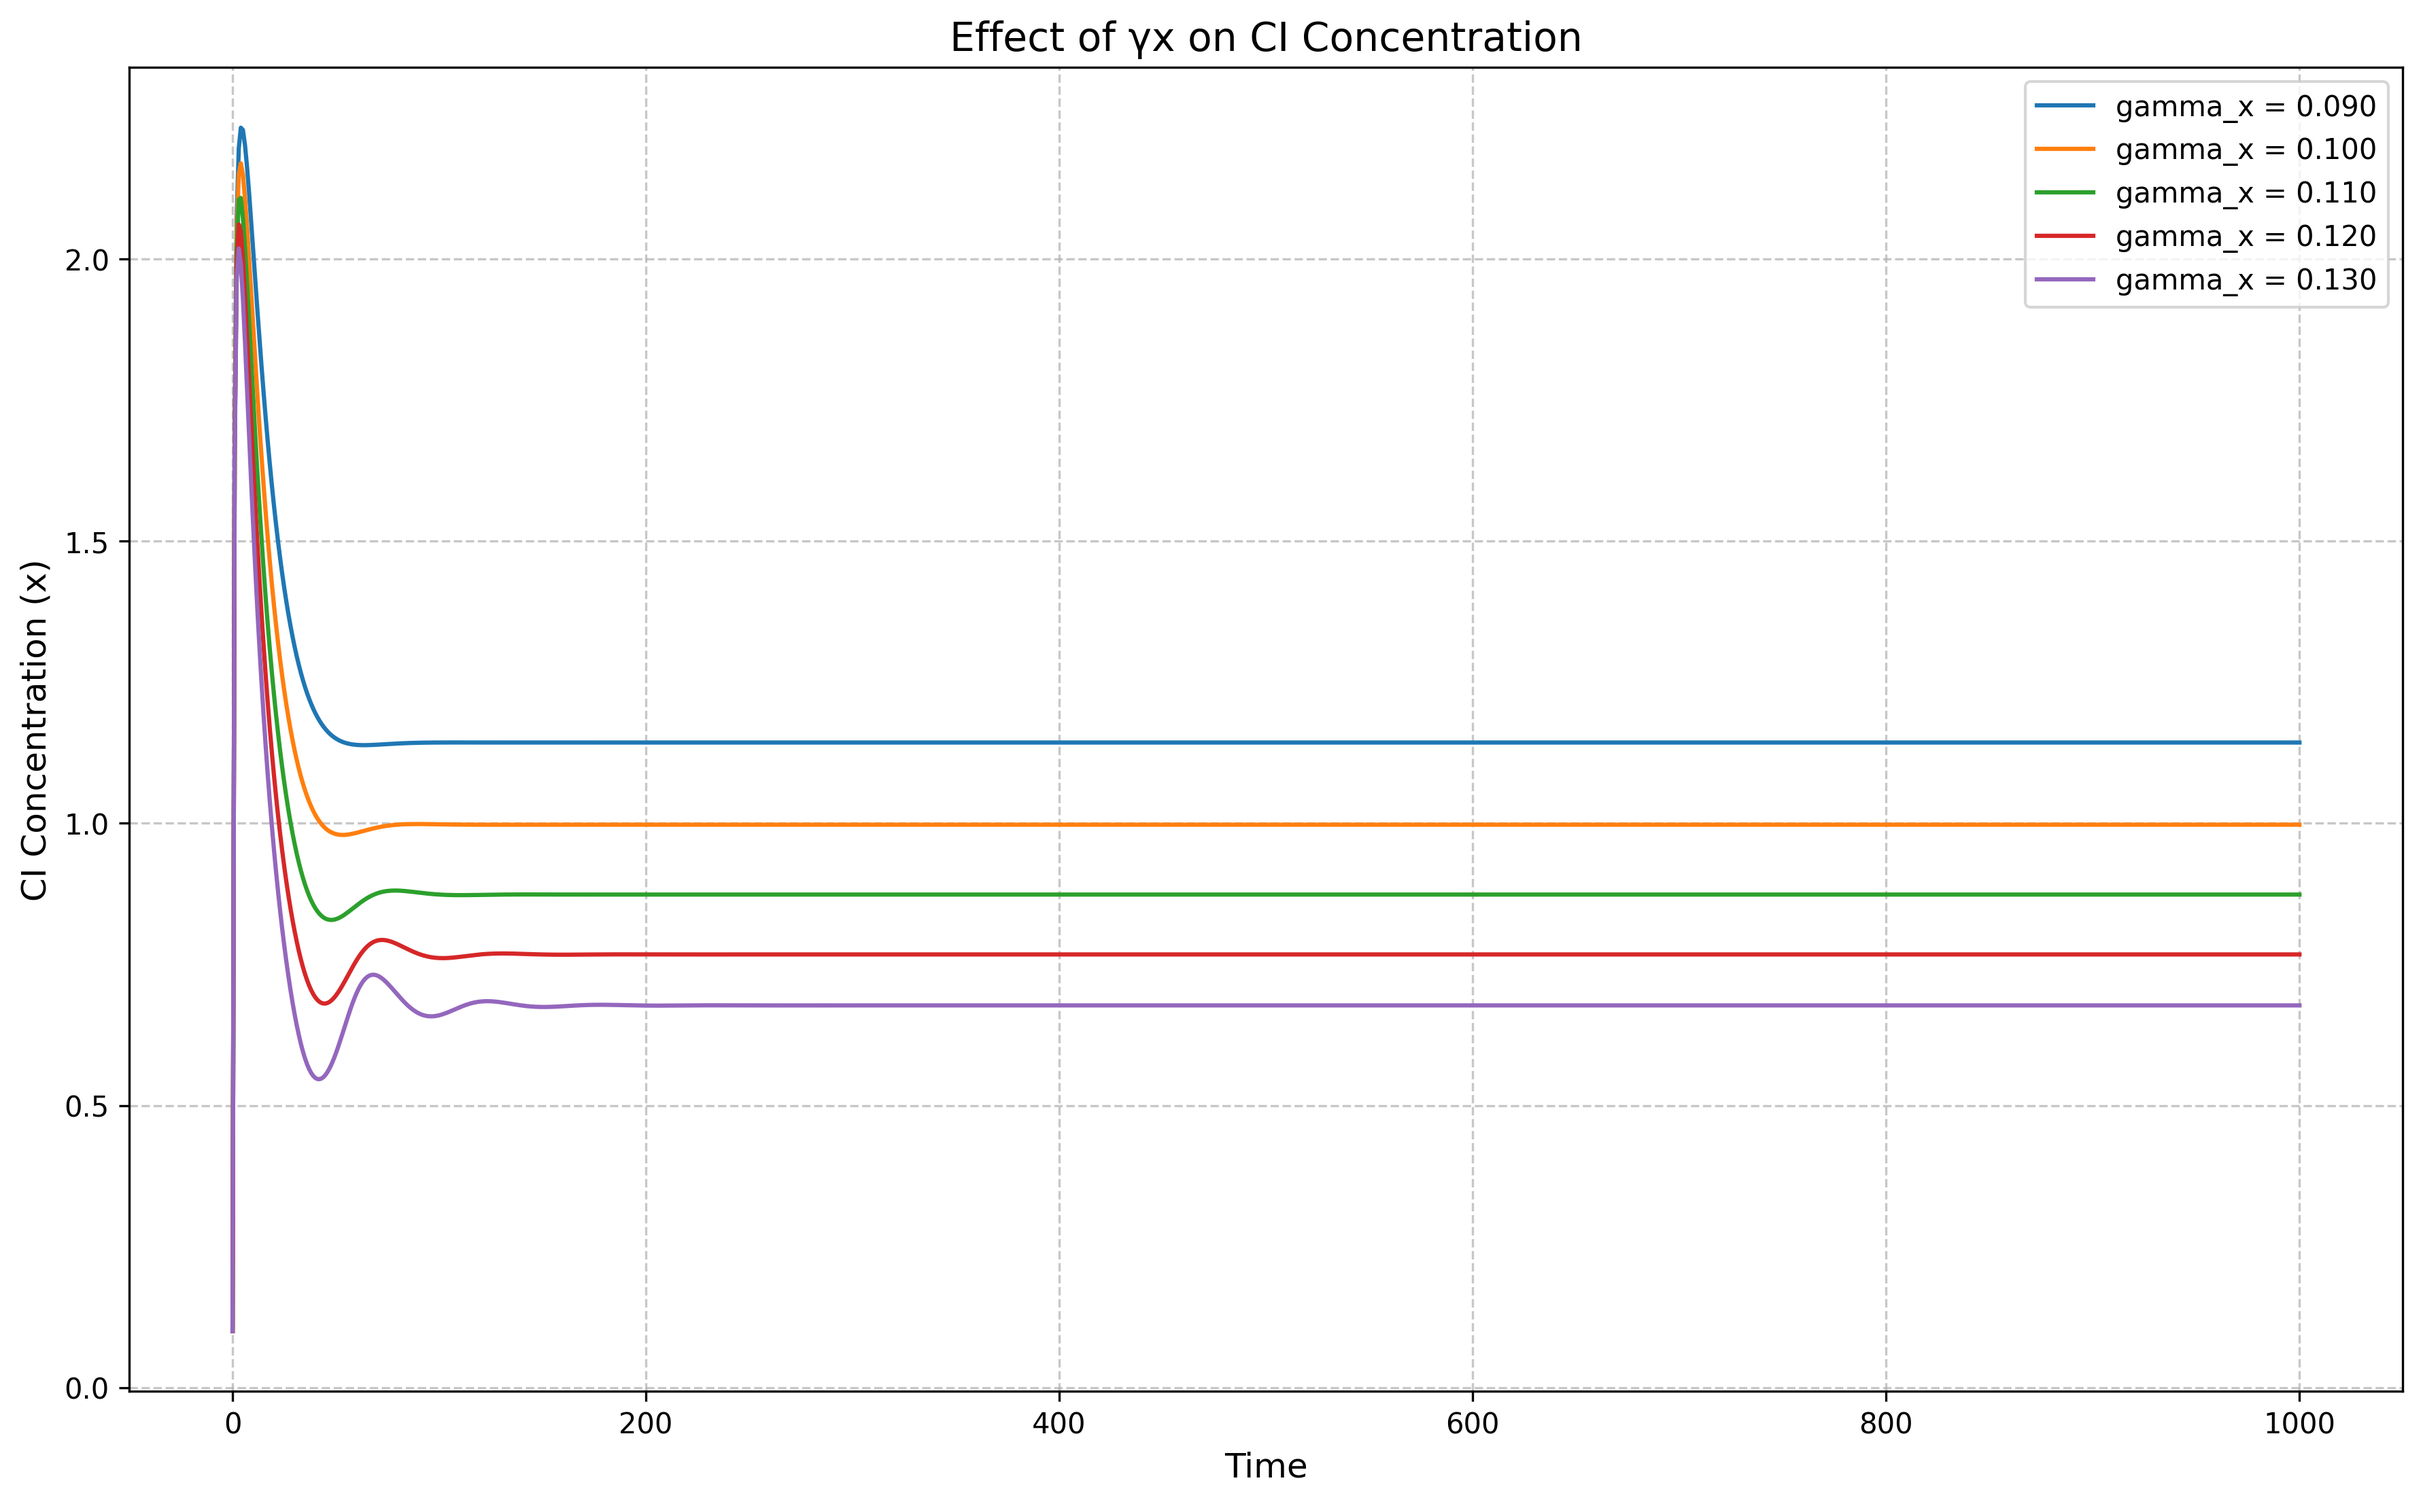
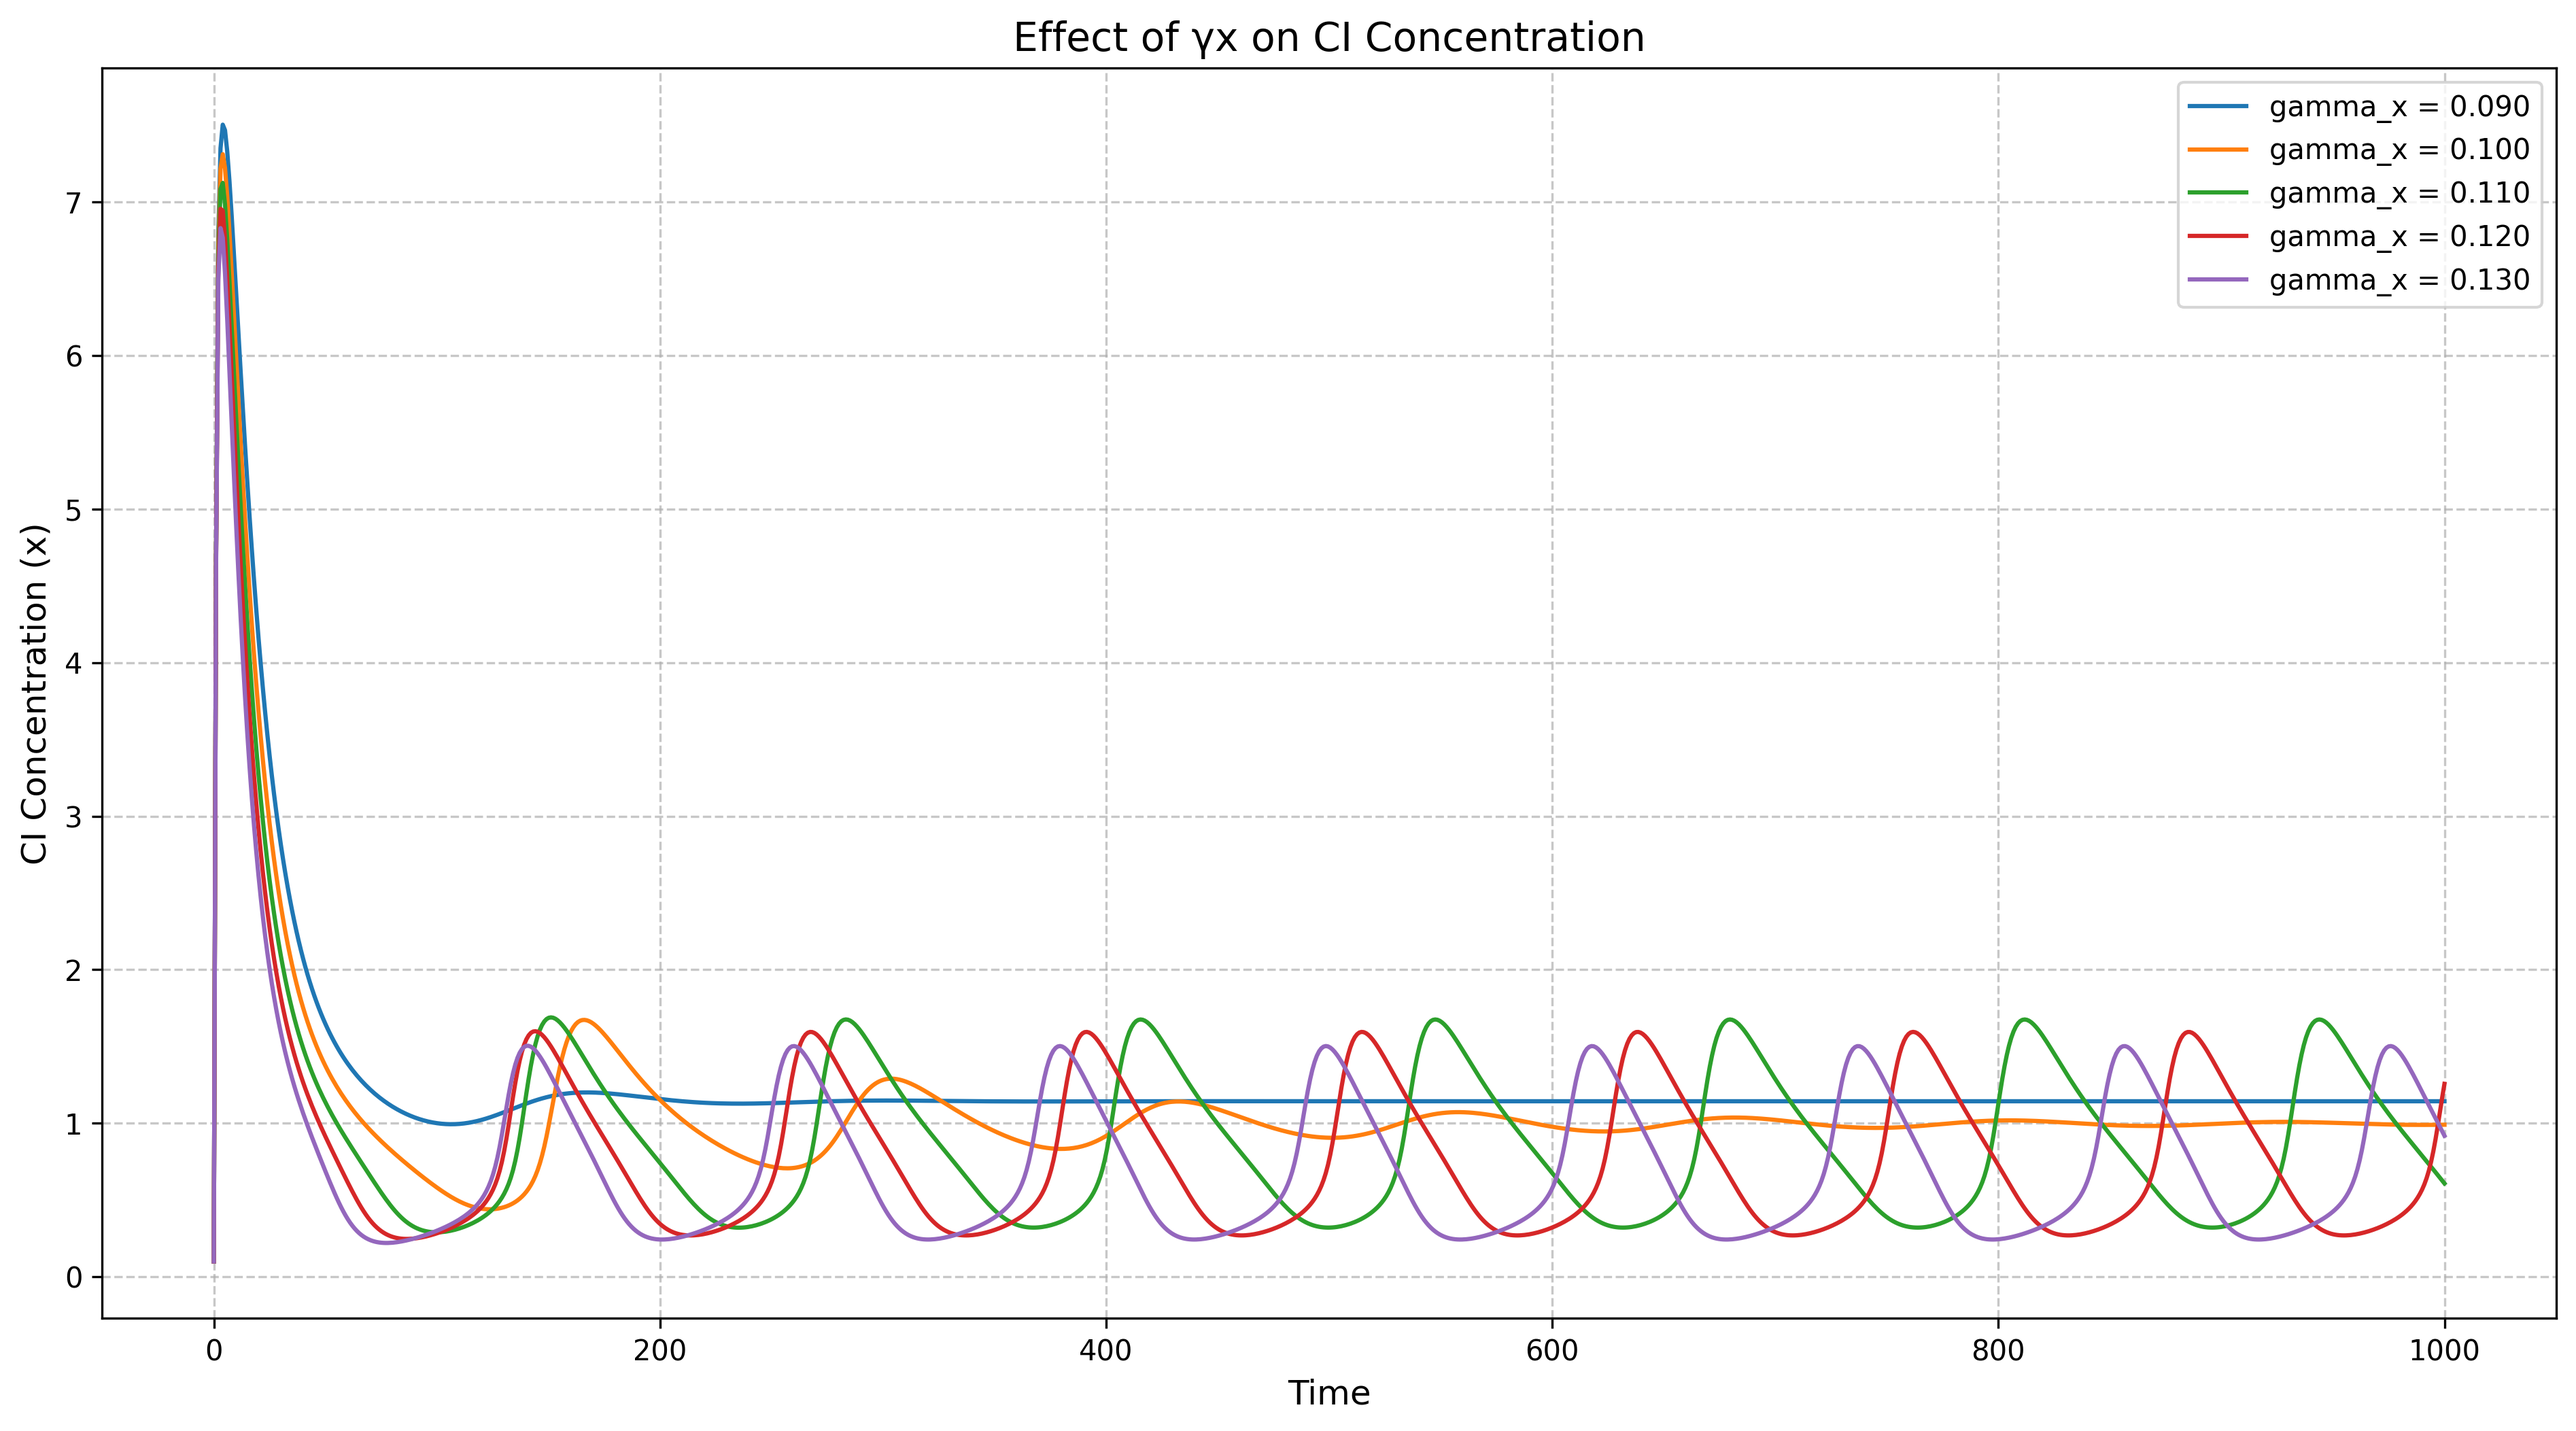
Fixed bugs with model, added tau_y as parameter

diff --git a/Model.py b/Model.py
@@ -31,36 +31,19 @@ def hasty_model(t, state, params):
     gamma_y = params['gamma_y']
     a = params['a']
     s = params['s']
+    tau_y = params['tau_y']
     
     # Common term for both equations
     common_term = (1 + x**2 + a*s*x**4) / ((1 + x**2 + s*x**4) * (1 + y**4))
     
     # Derivatives
     dx_dt = common_term - gamma_x * x
-    dy_dt = common_term - gamma_y * y
+    dy_dt = (1/tau_y)*(common_term - gamma_y * y)
     
     return [dx_dt, dy_dt]
 
 def simulate_hasty_model(params, t_span, initial_conditions, n_points=1000):
-    """
-    Simulate the Hasty 2002 model with given parameters.
-    
-    Parameters:
-    ----------
-    params : dict
-        Dictionary of parameters
-    t_span : tuple
-        (t_start, t_end)
-    initial_conditions : array
-        [x0, y0]
-    n_points : int
-        Number of time points to output
-    
-    Returns:
-    --------
-    tuple
-        (t, states)
-    """
+
     t_eval = np.linspace(t_span[0], t_span[1], n_points)
     sol = solve_ivp(
         hasty_model,
@@ -197,7 +180,8 @@ if __name__ == "__main__":
         'gamma_x': 0.105,  # Degradation rate for CI
         'gamma_y': 0.036,  # Degradation rate for Lac
         'a': 11,           # Activation parameter
-        's': 2             # Relative binding affinity
+        's': 2,            # Relative binding affinity
+        'tau_y': 5         # Time constant for Lac
     }
     
     t_span = (0, 1000)
